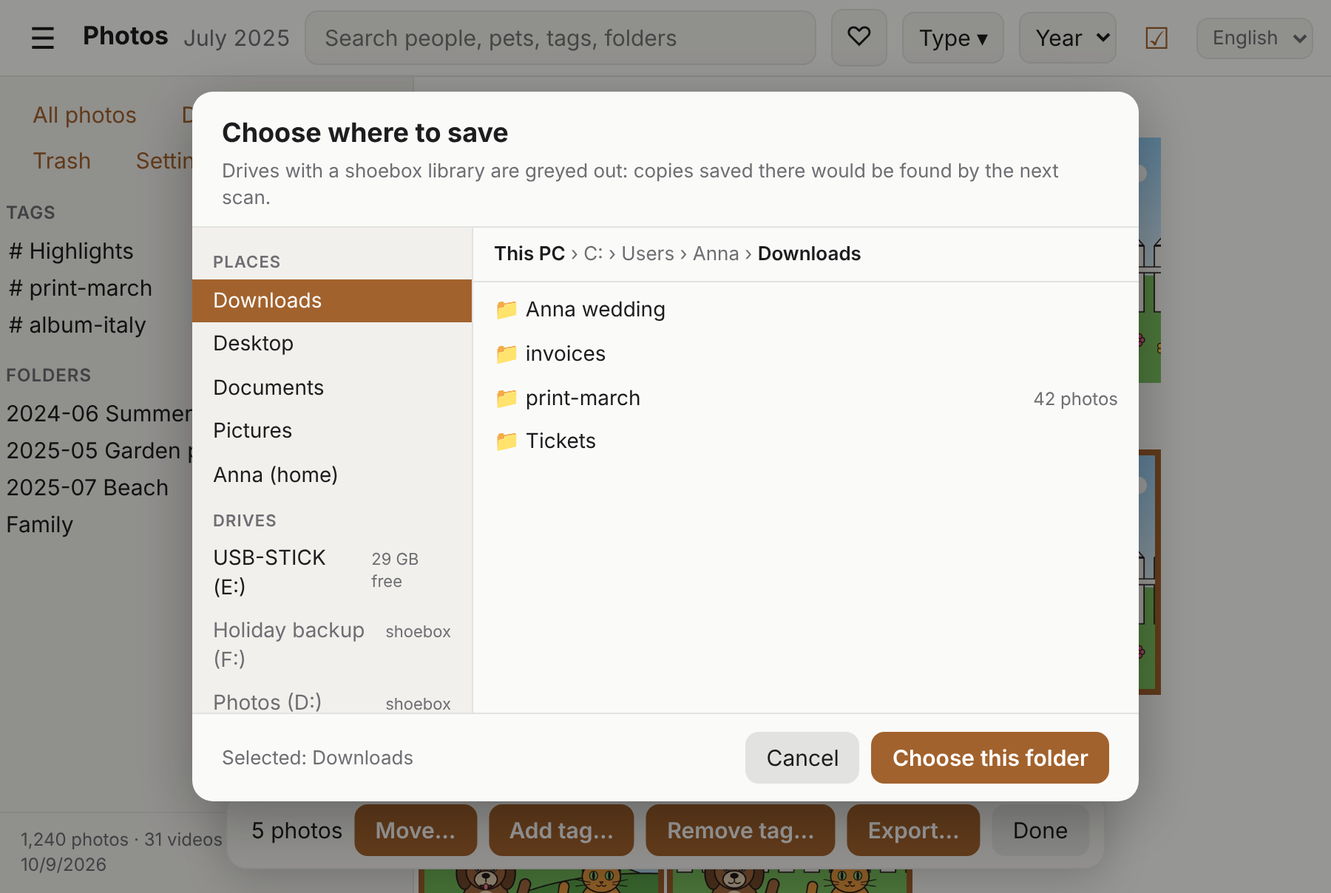
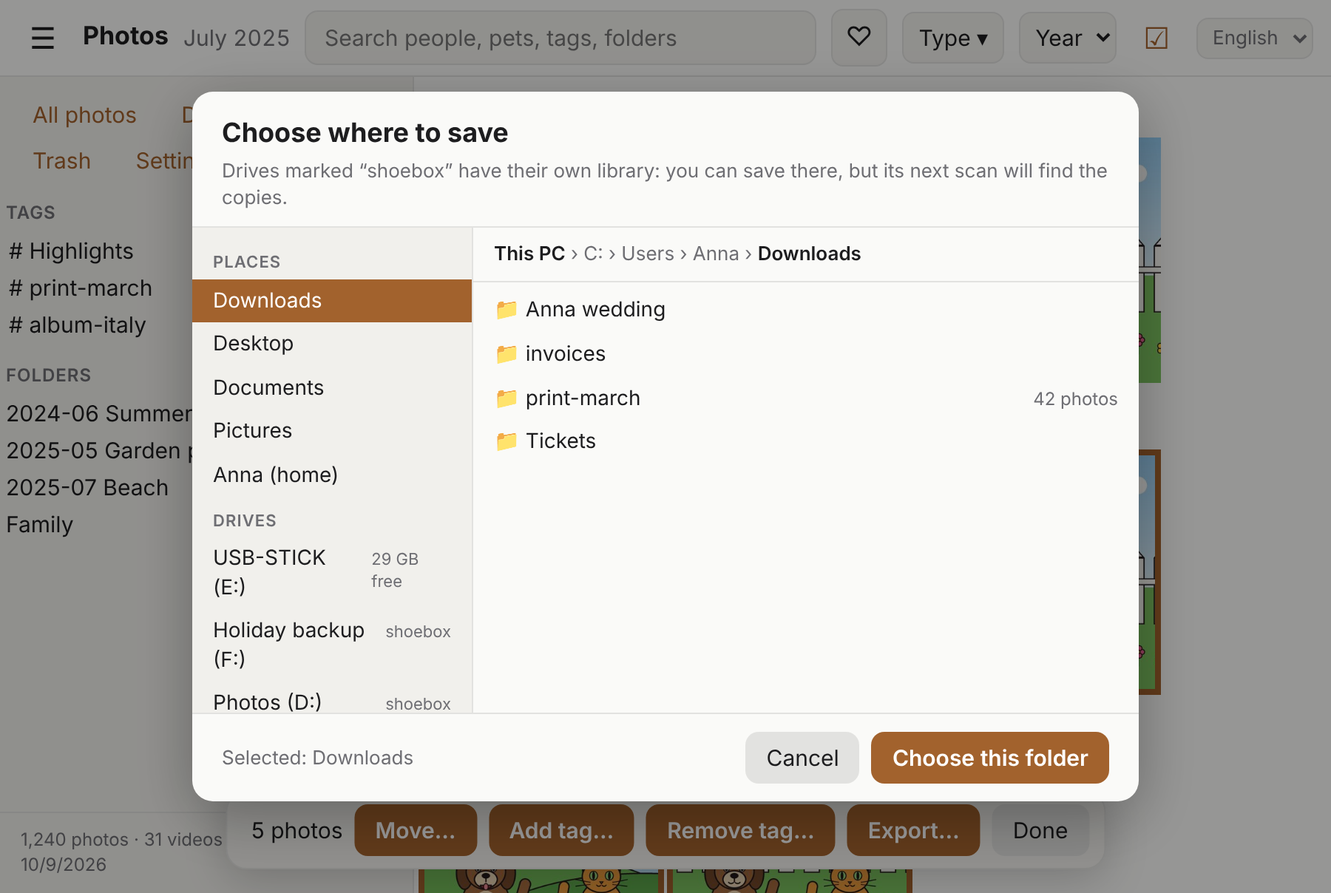
docs: phase 12 (export) design, mock-ups round 3, status row
Claude-Session: https://claude.ai/code/session_013Y4fyjXz5M6ynPyqcv9P97

diff --git a/docs/mocks/export/09b-settings-collection-empty.html b/docs/mocks/export/09b-settings-collection-empty.html
@@ -1,4 +1,5 @@
-<!doctype html><html><head><meta charset='utf-8'><title>mock</title><link rel='stylesheet' href='../../../core/web/app.css'>
+<!doctype html><html lang="en"><head><meta charset="utf-8"><title>mock</title>
+<link rel="stylesheet" href="../../../core/web/app.css">
 <style>
 body { overflow: hidden; }
 .mgrid { display: flex; flex-wrap: wrap; padding: 2px; }
@@ -56,6 +57,9 @@ body { overflow: hidden; }
 .callout { position: absolute; z-index: 9; font: 600 13px -apple-system, sans-serif; color: #fff; background: var(--accent); border-radius: 99px; padding: 2px 10px; }
 .toast { position: fixed; left: 50%; transform: translateX(-50%); top: 70px; bottom: auto; }
 .set-h { margin-top: 0; }
+.tip { position: absolute; z-index: 30; top: 48px; left: 600px; background: #2b2b2d; color: #eee; font-size: 13px; padding: 4px 9px; border-radius: 6px; border: 1px solid #444; white-space: nowrap; }
+.lb-bar .coll { outline: 0; }
+.lb-bar .hov { background: rgba(255,255,255,.18); border-radius: 6px; }
 .lightbox .toast { left: 330px; }
 .lightbox .stage { right: 340px; }
 .lb-panel { display: flex; }
@@ -66,4 +70,23 @@ body { overflow: hidden; }
 .tree .nm { flex: 1; }
 .tree .ct { color: var(--muted); font-size: 12px; }
 </style>
-</head><body><div class="lightbox"><div class="stage"><img src="img/p00.jpg" style="max-width:100%;max-height:100%"></div><div class="lb-bar"><button class="icon">✕</button><span class="lb-title">Jul 14, 2025, 3:12 PM · IMG_3457.jpg</span><button class="icon fav-lb"><svg width="22" height="22" viewBox="0 0 24 24" fill="none" stroke="currentColor" stroke-width="2"><path d="M12 21s-7.5-4.6-9.6-9.2C1 8.6 2.8 5 6.2 5c2 0 3.4 1.1 4.3 2.6h3C14.4 6.100 15.800 5 17.800 5c3.400 0 5.200 3.600 3.800 6.800C19.500 16.400 12 21 12 21z" transform="translate(0 0)"/></svg></button><button class="icon coll" title="Add to collection “print-march” (c)"><svg width="22" height="22" viewBox="0 0 24 24" fill="none" stroke="currentColor" stroke-width="2" stroke-linejoin="round"><path d="M6 3h12v18l-6-4.500L6 21z"/><path d="M12 8v6M9 11h6"/></svg></button><button class="icon">↺</button><button class="icon">⤓</button><button class="icon">ⓘ</button></div><button class="nav prev">‹</button><aside class="lb-panel"><dl><dt>Date</dt><dd>Jul 14, 2025, 3:12 PM</dd><dt>Drive</dt><dd>Photos</dd><dt>Path</dt><dd>/2025-07 Beach/IMG_3457.jpg</dd><dt>Size</dt><dd>1600 × 1067 · 133.1 KB</dd><dt>Camera</dt><dd>Sample Camera</dd><dt>Tags</dt><dd><div class="tags"><button>📁 2025-07 Beach</button><button class="add">+ Tag</button></div></dd></dl></aside></div></body></html>
+</head><body class="">
+<header class="bar">
+  <button class="icon">☰</button><h1>Photos</h1><span class="month">July 2025</span>
+  <div class="search"><input type="search" placeholder="Search people, pets, tags, folders" value=""></div>
+  <button class="fav-btn">♡</button>
+  <div class="types"><button class="types-btn">Type ▾</button></div>
+  <select><option>Year</option></select>
+  <button class="icon" style="">☑</button>
+  <select class="lang-pick"><option>English</option></select>
+</header>
+<div class="layout">
+  <nav class="sidebar">
+    <div class="sidebar-head"><button class="link">All photos</button> <button class="link">Duplicates</button> <button class="link">Trash</button> <button class="link">Settings</button></div>
+    <div class="side-tags"><h3><span>Tags</span></h3><ul class="tree"><li><div class="row"><span class="tw"></span><span class="nm"># Highlights</span><span class="ct">3</span></div></li><li><div class="row"><span class="tw"></span><span class="nm"># print-march</span><span class="ct">42</span></div></li><li><div class="row"><span class="tw"></span><span class="nm"># album-italy</span><span class="ct">17</span></div></li></ul></div>
+    <h3 class="side-head"><span>Folders</span></h3>
+    <ul class="tree"><li><div class="row"><span class="nm">2024-06 Summer trip</span><span class="ct">6</span></div></li><li><div class="row"><span class="nm">2025-05 Garden party</span><span class="ct">3</span></div></li><li><div class="row"><span class="nm">2025-07 Beach</span><span class="ct">3</span></div></li><li><div class="row"><span class="nm">Family</span><span class="ct">3</span></div></li></ul>
+    <footer class="status">1,240 photos · 31 videos · last scan 10/9/2026</footer>
+  </nav>
+  <main class="scroller"><div class="page"><h2>Settings</h2><section class="settings-section"><h3>Moving to the trash</h3><label class="check-row"><input type="checkbox"> Allow move to trash</label><p class="hint">Off by default, so shoebox never touches your originals.</p></section><section class="settings-section"><h3>Collection <span style="background:var(--accent);color:#fff;border-radius:99px;font-size:11px;padding:1px 8px;vertical-align:middle">new</span></h3><p class="hint" style="margin-top:0">A quick way to gather photos for something: a print order, an album, a video for a birthday. Type a tag name here and this button <span class="iconbox"><svg width="22" height="22" viewBox="0 0 24 24" fill="none" stroke="currentColor" stroke-width="2" stroke-linejoin="round"><path d="M6 3h12v18l-6-4.500L6 21z"/><path d="M12 8v6M9 11h6"/></svg></span> appears in the photo view (shortcut <span class="kbd">C</span>). One click tags the photo with it, another click removes the tag. Then search for the tag and use <b>Export…</b> to get all of them in one folder. Leave it empty to hide the button.</p><div style="display:flex;gap:10px;align-items:center"><span class="iconbox"><svg width="22" height="22" viewBox="0 0 24 24" fill="none" stroke="currentColor" stroke-width="2" stroke-linejoin="round"><path d="M6 3h12v18l-6-4.500L6 21z"/><path d="M12 8v6M9 11h6"/></svg></span><input type="text" value="" placeholder="e.g. album-italy" style="padding:7px 10px;border-radius:8px;border:1px solid var(--line);background:var(--panel)"> <span class="hint">Empty: no button in the photo view</span></div></section><section class="settings-section"><h3>Export <span style="background:var(--accent);color:#fff;border-radius:99px;font-size:11px;padding:1px 8px;vertical-align:middle">new</span></h3><label class="check-row"><input type="checkbox" checked> Number exported files</label><p class="hint">Puts the order of the photos in front of the name: <b>001_IMG_3457.jpg</b>, <b>002_IMG_3501.jpg</b>… The numbers follow the capture date, so a layout program or a print shop sees the same order as the timeline. Off: files keep their name only.</p></section><section class="settings-section"><h3>Maps</h3><label class="check-row"><input type="checkbox"> Show maps (OpenStreetMap)</label></section></div></main>
+</div></body></html>

diff --git a/docs/mocks/export/10b-photo-view-after-click.html b/docs/mocks/export/10b-photo-view-after-click.html
@@ -1,5 +1,4 @@
-<!doctype html><html lang="en"><head><meta charset="utf-8"><title>mock</title>
-<link rel="stylesheet" href="../../../core/web/app.css">
+<!doctype html><html><head><meta charset='utf-8'><title>mock</title><link rel='stylesheet' href='../../../core/web/app.css'>
 <style>
 body { overflow: hidden; }
 .mgrid { display: flex; flex-wrap: wrap; padding: 2px; }
@@ -70,23 +69,4 @@ body { overflow: hidden; }
 .tree .nm { flex: 1; }
 .tree .ct { color: var(--muted); font-size: 12px; }
 </style>
-</head><body class="selecting">
-<header class="bar">
-  <button class="icon">☰</button><h1>Photos</h1><span class="month">July 2025</span>
-  <div class="search"><input type="search" placeholder="Search people, pets, tags, folders" value=""></div>
-  <button class="fav-btn">♡</button>
-  <div class="types"><button class="types-btn">Type ▾</button></div>
-  <select><option>Year</option></select>
-  <button class="icon" style="color:var(--accent)">☑</button>
-  <select class="lang-pick"><option>English</option></select>
-</header>
-<div class="layout">
-  <nav class="sidebar">
-    <div class="sidebar-head"><button class="link">All photos</button> <button class="link">Duplicates</button> <button class="link">Trash</button> <button class="link">Settings</button></div>
-    <div class="side-tags"><h3><span>Tags</span></h3><ul class="tree"><li><div class="row"><span class="tw"></span><span class="nm"># Highlights</span><span class="ct">3</span></div></li><li><div class="row"><span class="tw"></span><span class="nm"># print-march</span><span class="ct">42</span></div></li><li><div class="row"><span class="tw"></span><span class="nm"># album-italy</span><span class="ct">17</span></div></li></ul></div>
-    <h3 class="side-head"><span>Folders</span></h3>
-    <ul class="tree"><li><div class="row"><span class="nm">2024-06 Summer trip</span><span class="ct">6</span></div></li><li><div class="row"><span class="nm">2025-05 Garden party</span><span class="ct">3</span></div></li><li><div class="row"><span class="nm">2025-07 Beach</span><span class="ct">3</span></div></li><li><div class="row"><span class="nm">Family</span><span class="ct">3</span></div></li></ul>
-    <footer class="status">1,240 photos · 31 videos · last scan 10/9/2026</footer>
-  </nav>
-  <main class="scroller"><div class="sech">July 2025<span class="n">3</span></div><div class="mgrid"><a class="cell"><div class="ph"><img class="ok" src="img/p00.jpg"></div></a><a class="cell"><div class="ph"><img class="ok" src="img/p01.jpg"></div></a><a class="cell"><div class="ph"><img class="ok" src="img/p02.jpg"></div></a></div><div class="sech">May 2025<span class="n">5</span></div><div class="mgrid"><a class="cell sel"><div class="ph"><img class="ok" src="img/p03.jpg"></div><span class="tick">✓</span></a><a class="cell sel"><div class="ph"><img class="ok" src="img/p04.jpg"></div><span class="tick">✓</span></a><a class="cell sel"><div class="ph"><img class="ok" src="img/p05.jpg"></div><span class="tick">✓</span></a><a class="cell sel"><div class="ph"><img class="ok" src="img/p06.jpg"></div><span class="tick">✓</span></a><a class="cell sel"><div class="ph"><img class="ok" src="img/p07.jpg"></div><span class="tick">✓</span></a></div><div class="sech">March 2025<span class="n">3</span></div><div class="mgrid"><a class="cell"><div class="ph"><img class="ok" src="img/p08.jpg"></div></a><a class="cell"><div class="ph"><img class="ok" src="img/p09.jpg"></div></a><a class="cell"><div class="ph"><img class="ok" src="img/p10.jpg"></div></a></div></main>
-</div><div class="modal"><div class="dialog picker" role="dialog"><header><h2>Choose where to save</h2><p class="hint" style="margin:4px 0 0">Drives marked “shoebox” have their own library: you can save there, but its next scan will find the copies.</p></header><div class="pk"><nav><h4>Places</h4><div class="on">Downloads</div><div class="">Desktop</div><div class="">Documents</div><div class="">Pictures</div><div class="">anna (home)</div><h4>Drives</h4><div>USB-STICK<small>29 GB free</small></div><div>Holiday backup<small>shoebox</small></div><div>Photos<small>shoebox</small></div></nav><div class="main"><div class="crumbs"><b>/</b> Users › anna › <b>Downloads</b></div><ul><li><span>📁 Anna wedding</span><small></small></li><li><span>📁 invoices</span><small></small></li><li><span>📁 print-march</span><small>42 photos</small></li><li><span>📁 Tickets</span><small></small></li></ul></div></div><div class="foot"><span class="grow">Selected: Downloads</span><button class="btn quiet">Cancel</button><button class="btn">Choose this folder</button></div></div></div><div class="selbar"><span>5 photos</span><button class="btn">Move…</button><button class="btn">Add tag…</button><button class="btn">Remove tag…</button><button class="btn export">Export…</button><button class="btn quiet">Done</button></div></body></html>
+</head><body><div class="lightbox"><div class="stage"><img src="img/p00.jpg" style="max-width:100%;max-height:100%"></div><div class="lb-bar"><button class="icon">✕</button><span class="lb-title">Jul 14, 2025, 3:12 PM · IMG_3457.jpg</span><button class="icon fav-lb"><svg width="22" height="22" viewBox="0 0 24 24" fill="none" stroke="currentColor" stroke-width="2"><path d="M12 21s-7.5-4.6-9.6-9.2C1 8.6 2.8 5 6.2 5c2 0 3.4 1.1 4.3 2.6h3C14.4 6.100 15.800 5 17.800 5c3.400 0 5.200 3.600 3.800 6.800C19.500 16.400 12 21 12 21z" transform="translate(0 0)"/></svg></button><button class="icon coll on"><svg width="22" height="22" viewBox="0 0 24 24" fill="currentColor" stroke="currentColor" stroke-width="2" stroke-linejoin="round"><path d="M6 3h12v18l-6-4.500L6 21z"/><path d="M9 11.500l2.200 2.200L15.200 9" stroke="#111"/></svg></button><button class="icon">↺</button><button class="icon">⤓</button><button class="icon">ⓘ</button></div><button class="nav prev">‹</button><aside class="lb-panel"><dl><dt>Date</dt><dd>Jul 14, 2025, 3:12 PM</dd><dt>Drive</dt><dd>Photos</dd><dt>Path</dt><dd>/2025-07 Beach/IMG_3457.jpg</dd><dt>Size</dt><dd>1600 × 1067 · 133.1 KB</dd><dt>Camera</dt><dd>Sample Camera</dd><dt>Tags</dt><dd><div class="tags"><button>📁 2025-07 Beach</button><span class="own"><button>print-march</button><button class="x">✕</button></span><button class="add">+ Tag</button></div></dd></dl></aside><div class="toast">Added to “print-march” · 43 photos</div></div></body></html>

diff --git a/docs/mocks/export/10a-photo-view-hover-off.html b/docs/mocks/export/10a-photo-view-hover-off.html
@@ -1,5 +1,4 @@
-<!doctype html><html lang="en"><head><meta charset="utf-8"><title>mock</title>
-<link rel="stylesheet" href="../../../core/web/app.css">
+<!doctype html><html><head><meta charset='utf-8'><title>mock</title><link rel='stylesheet' href='../../../core/web/app.css'>
 <style>
 body { overflow: hidden; }
 .mgrid { display: flex; flex-wrap: wrap; padding: 2px; }
@@ -70,23 +69,4 @@ body { overflow: hidden; }
 .tree .nm { flex: 1; }
 .tree .ct { color: var(--muted); font-size: 12px; }
 </style>
-</head><body class="selecting">
-<header class="bar">
-  <button class="icon">☰</button><h1>Photos</h1><span class="month">July 2025</span>
-  <div class="search"><input type="search" placeholder="Search people, pets, tags, folders" value=""></div>
-  <button class="fav-btn">♡</button>
-  <div class="types"><button class="types-btn">Type ▾</button></div>
-  <select><option>Year</option></select>
-  <button class="icon" style="color:var(--accent)">☑</button>
-  <select class="lang-pick"><option>English</option></select>
-</header>
-<div class="layout">
-  <nav class="sidebar">
-    <div class="sidebar-head"><button class="link">All photos</button> <button class="link">Duplicates</button> <button class="link">Trash</button> <button class="link">Settings</button></div>
-    <div class="side-tags"><h3><span>Tags</span></h3><ul class="tree"><li><div class="row"><span class="tw"></span><span class="nm"># Highlights</span><span class="ct">3</span></div></li><li><div class="row"><span class="tw"></span><span class="nm"># print-march</span><span class="ct">42</span></div></li><li><div class="row"><span class="tw"></span><span class="nm"># album-italy</span><span class="ct">17</span></div></li></ul></div>
-    <h3 class="side-head"><span>Folders</span></h3>
-    <ul class="tree"><li><div class="row"><span class="nm">2024-06 Summer trip</span><span class="ct">6</span></div></li><li><div class="row"><span class="nm">2025-05 Garden party</span><span class="ct">3</span></div></li><li><div class="row"><span class="nm">2025-07 Beach</span><span class="ct">3</span></div></li><li><div class="row"><span class="nm">Family</span><span class="ct">3</span></div></li></ul>
-    <footer class="status">1,240 photos · 31 videos · last scan 10/9/2026</footer>
-  </nav>
-  <main class="scroller"><div class="sech">July 2025<span class="n">3</span></div><div class="mgrid"><a class="cell"><div class="ph"><img class="ok" src="img/p00.jpg"></div></a><a class="cell"><div class="ph"><img class="ok" src="img/p01.jpg"></div></a><a class="cell"><div class="ph"><img class="ok" src="img/p02.jpg"></div></a></div><div class="sech">May 2025<span class="n">5</span></div><div class="mgrid"><a class="cell sel"><div class="ph"><img class="ok" src="img/p03.jpg"></div><span class="tick">✓</span></a><a class="cell sel"><div class="ph"><img class="ok" src="img/p04.jpg"></div><span class="tick">✓</span></a><a class="cell sel"><div class="ph"><img class="ok" src="img/p05.jpg"></div><span class="tick">✓</span></a><a class="cell sel"><div class="ph"><img class="ok" src="img/p06.jpg"></div><span class="tick">✓</span></a><a class="cell sel"><div class="ph"><img class="ok" src="img/p07.jpg"></div><span class="tick">✓</span></a></div><div class="sech">March 2025<span class="n">3</span></div><div class="mgrid"><a class="cell"><div class="ph"><img class="ok" src="img/p08.jpg"></div></a><a class="cell"><div class="ph"><img class="ok" src="img/p09.jpg"></div></a><a class="cell"><div class="ph"><img class="ok" src="img/p10.jpg"></div></a></div></main>
-</div><div class="modal"><div class="dialog picker" role="dialog"><header><h2>Choose where to save</h2><p class="hint" style="margin:4px 0 0">Drives marked “shoebox” have their own library: you can save there, but its next scan will find the copies.</p></header><div class="pk"><nav><h4>Places</h4><div class="on">Downloads</div><div class="">Desktop</div><div class="">Documents</div><div class="">Pictures</div><div class="">anna (home)</div><h4>Drives</h4><div>USB-STICK<small>29 GB free</small></div><div>Holiday backup<small>shoebox</small></div><div>Photos<small>shoebox</small></div></nav><div class="main"><div class="crumbs"><b>/</b> Users › anna › <b>Downloads</b></div><ul><li><span>📁 Anna wedding</span><small></small></li><li><span>📁 invoices</span><small></small></li><li><span>📁 print-march</span><small>42 photos</small></li><li><span>📁 Tickets</span><small></small></li></ul></div></div><div class="foot"><span class="grow">Selected: Downloads</span><button class="btn quiet">Cancel</button><button class="btn">Choose this folder</button></div></div></div><div class="selbar"><span>5 photos</span><button class="btn">Move…</button><button class="btn">Add tag…</button><button class="btn">Remove tag…</button><button class="btn export">Export…</button><button class="btn quiet">Done</button></div></body></html>
+</head><body><div class="lightbox"><div class="stage"><img src="img/p00.jpg" style="max-width:100%;max-height:100%"></div><div class="lb-bar"><button class="icon">✕</button><span class="lb-title">Jul 14, 2025, 3:12 PM · IMG_3457.jpg</span><button class="icon fav-lb"><svg width="22" height="22" viewBox="0 0 24 24" fill="none" stroke="currentColor" stroke-width="2"><path d="M12 21s-7.5-4.6-9.6-9.2C1 8.6 2.8 5 6.2 5c2 0 3.4 1.1 4.3 2.6h3C14.4 6.100 15.800 5 17.800 5c3.400 0 5.200 3.600 3.800 6.800C19.500 16.400 12 21 12 21z" transform="translate(0 0)"/></svg></button><button class="icon coll hov"><svg width="22" height="22" viewBox="0 0 24 24" fill="none" stroke="currentColor" stroke-width="2" stroke-linejoin="round"><path d="M6 3h12v18l-6-4.500L6 21z"/><path d="M12 8v6M9 11h6"/></svg></button><button class="icon">↺</button><button class="icon">⤓</button><button class="icon">ⓘ</button></div><button class="nav prev">‹</button><aside class="lb-panel"><dl><dt>Date</dt><dd>Jul 14, 2025, 3:12 PM</dd><dt>Drive</dt><dd>Photos</dd><dt>Path</dt><dd>/2025-07 Beach/IMG_3457.jpg</dd><dt>Size</dt><dd>1600 × 1067 · 133.1 KB</dd><dt>Camera</dt><dd>Sample Camera</dd><dt>Tags</dt><dd><div class="tags"><button>📁 2025-07 Beach</button><button class="add">+ Tag</button></div></dd></dl></aside><span class="tip">Add tag “print-march” (C)</span></div></body></html>

diff --git a/docs/mocks/export/10d-photo-view-no-collection-set.html b/docs/mocks/export/10d-photo-view-no-collection-set.html
@@ -1,5 +1,4 @@
-<!doctype html><html lang="en"><head><meta charset="utf-8"><title>mock</title>
-<link rel="stylesheet" href="../../../core/web/app.css">
+<!doctype html><html><head><meta charset='utf-8'><title>mock</title><link rel='stylesheet' href='../../../core/web/app.css'>
 <style>
 body { overflow: hidden; }
 .mgrid { display: flex; flex-wrap: wrap; padding: 2px; }
@@ -70,23 +69,4 @@ body { overflow: hidden; }
 .tree .nm { flex: 1; }
 .tree .ct { color: var(--muted); font-size: 12px; }
 </style>
-</head><body class="selecting">
-<header class="bar">
-  <button class="icon">☰</button><h1>Photos</h1><span class="month">July 2025</span>
-  <div class="search"><input type="search" placeholder="Search people, pets, tags, folders" value=""></div>
-  <button class="fav-btn">♡</button>
-  <div class="types"><button class="types-btn">Type ▾</button></div>
-  <select><option>Year</option></select>
-  <button class="icon" style="color:var(--accent)">☑</button>
-  <select class="lang-pick"><option>English</option></select>
-</header>
-<div class="layout">
-  <nav class="sidebar">
-    <div class="sidebar-head"><button class="link">All photos</button> <button class="link">Duplicates</button> <button class="link">Trash</button> <button class="link">Settings</button></div>
-    <div class="side-tags"><h3><span>Tags</span></h3><ul class="tree"><li><div class="row"><span class="tw"></span><span class="nm"># Highlights</span><span class="ct">3</span></div></li><li><div class="row"><span class="tw"></span><span class="nm"># print-march</span><span class="ct">42</span></div></li><li><div class="row"><span class="tw"></span><span class="nm"># album-italy</span><span class="ct">17</span></div></li></ul></div>
-    <h3 class="side-head"><span>Folders</span></h3>
-    <ul class="tree"><li><div class="row"><span class="nm">2024-06 Summer trip</span><span class="ct">6</span></div></li><li><div class="row"><span class="nm">2025-05 Garden party</span><span class="ct">3</span></div></li><li><div class="row"><span class="nm">2025-07 Beach</span><span class="ct">3</span></div></li><li><div class="row"><span class="nm">Family</span><span class="ct">3</span></div></li></ul>
-    <footer class="status">1,240 photos · 31 videos · last scan 10/9/2026</footer>
-  </nav>
-  <main class="scroller"><div class="sech">July 2025<span class="n">3</span></div><div class="mgrid"><a class="cell"><div class="ph"><img class="ok" src="img/p00.jpg"></div></a><a class="cell"><div class="ph"><img class="ok" src="img/p01.jpg"></div></a><a class="cell"><div class="ph"><img class="ok" src="img/p02.jpg"></div></a></div><div class="sech">May 2025<span class="n">5</span></div><div class="mgrid"><a class="cell sel"><div class="ph"><img class="ok" src="img/p03.jpg"></div><span class="tick">✓</span></a><a class="cell sel"><div class="ph"><img class="ok" src="img/p04.jpg"></div><span class="tick">✓</span></a><a class="cell sel"><div class="ph"><img class="ok" src="img/p05.jpg"></div><span class="tick">✓</span></a><a class="cell sel"><div class="ph"><img class="ok" src="img/p06.jpg"></div><span class="tick">✓</span></a><a class="cell sel"><div class="ph"><img class="ok" src="img/p07.jpg"></div><span class="tick">✓</span></a></div><div class="sech">March 2025<span class="n">3</span></div><div class="mgrid"><a class="cell"><div class="ph"><img class="ok" src="img/p08.jpg"></div></a><a class="cell"><div class="ph"><img class="ok" src="img/p09.jpg"></div></a><a class="cell"><div class="ph"><img class="ok" src="img/p10.jpg"></div></a></div></main>
-</div><div class="modal"><div class="dialog picker" role="dialog"><header><h2>Choose where to save</h2><p class="hint" style="margin:4px 0 0">Drives marked “shoebox” have their own library: you can save there, but its next scan will find the copies.</p></header><div class="pk"><nav><h4>Places</h4><div class="on">Downloads</div><div class="">Desktop</div><div class="">Documents</div><div class="">Pictures</div><div class="">anna (home)</div><h4>Drives</h4><div>USB-STICK<small>29 GB free</small></div><div>Holiday backup<small>shoebox</small></div><div>Photos<small>shoebox</small></div></nav><div class="main"><div class="crumbs"><b>/</b> Users › anna › <b>Downloads</b></div><ul><li><span>📁 Anna wedding</span><small></small></li><li><span>📁 invoices</span><small></small></li><li><span>📁 print-march</span><small>42 photos</small></li><li><span>📁 Tickets</span><small></small></li></ul></div></div><div class="foot"><span class="grow">Selected: Downloads</span><button class="btn quiet">Cancel</button><button class="btn">Choose this folder</button></div></div></div><div class="selbar"><span>5 photos</span><button class="btn">Move…</button><button class="btn">Add tag…</button><button class="btn">Remove tag…</button><button class="btn export">Export…</button><button class="btn quiet">Done</button></div></body></html>
+</head><body><div class="lightbox"><div class="stage"><img src="img/p00.jpg" style="max-width:100%;max-height:100%"></div><div class="lb-bar"><button class="icon">✕</button><span class="lb-title">Jul 14, 2025, 3:12 PM · IMG_3457.jpg</span><button class="icon fav-lb"><svg width="22" height="22" viewBox="0 0 24 24" fill="none" stroke="currentColor" stroke-width="2"><path d="M12 21s-7.5-4.6-9.6-9.2C1 8.6 2.8 5 6.2 5c2 0 3.4 1.1 4.3 2.6h3C14.4 6.100 15.800 5 17.800 5c3.400 0 5.200 3.600 3.800 6.800C19.500 16.400 12 21 12 21z" transform="translate(0 0)"/></svg></button><button class="icon">↺</button><button class="icon">⤓</button><button class="icon">ⓘ</button></div><button class="nav prev">‹</button><aside class="lb-panel"><dl><dt>Date</dt><dd>Jul 14, 2025, 3:12 PM</dd><dt>Drive</dt><dd>Photos</dd><dt>Path</dt><dd>/2025-07 Beach/IMG_3457.jpg</dd><dt>Size</dt><dd>1600 × 1067 · 133.1 KB</dd><dt>Camera</dt><dd>Sample Camera</dd><dt>Tags</dt><dd><div class="tags"><button>📁 2025-07 Beach</button><button class="add">+ Tag</button></div></dd></dl></aside></div></body></html>

diff --git a/docs/mocks/export/11-warning-other-shoebox-drive.html b/docs/mocks/export/11-warning-other-shoebox-drive.html
@@ -70,14 +70,14 @@ body { overflow: hidden; }
 .tree .nm { flex: 1; }
 .tree .ct { color: var(--muted); font-size: 12px; }
 </style>
-</head><body class="selecting">
+</head><body class="">
 <header class="bar">
   <button class="icon">☰</button><h1>Photos</h1><span class="month">July 2025</span>
   <div class="search"><input type="search" placeholder="Search people, pets, tags, folders" value=""></div>
   <button class="fav-btn">♡</button>
   <div class="types"><button class="types-btn">Type ▾</button></div>
   <select><option>Year</option></select>
-  <button class="icon" style="color:var(--accent)">☑</button>
+  <button class="icon" style="">☑</button>
   <select class="lang-pick"><option>English</option></select>
 </header>
 <div class="layout">
@@ -88,5 +88,5 @@ body { overflow: hidden; }
     <ul class="tree"><li><div class="row"><span class="nm">2024-06 Summer trip</span><span class="ct">6</span></div></li><li><div class="row"><span class="nm">2025-05 Garden party</span><span class="ct">3</span></div></li><li><div class="row"><span class="nm">2025-07 Beach</span><span class="ct">3</span></div></li><li><div class="row"><span class="nm">Family</span><span class="ct">3</span></div></li></ul>
     <footer class="status">1,240 photos · 31 videos · last scan 10/9/2026</footer>
   </nav>
-  <main class="scroller"><div class="sech">July 2025<span class="n">3</span></div><div class="mgrid"><a class="cell"><div class="ph"><img class="ok" src="img/p00.jpg"></div></a><a class="cell"><div class="ph"><img class="ok" src="img/p01.jpg"></div></a><a class="cell"><div class="ph"><img class="ok" src="img/p02.jpg"></div></a></div><div class="sech">May 2025<span class="n">5</span></div><div class="mgrid"><a class="cell sel"><div class="ph"><img class="ok" src="img/p03.jpg"></div><span class="tick">✓</span></a><a class="cell sel"><div class="ph"><img class="ok" src="img/p04.jpg"></div><span class="tick">✓</span></a><a class="cell sel"><div class="ph"><img class="ok" src="img/p05.jpg"></div><span class="tick">✓</span></a><a class="cell sel"><div class="ph"><img class="ok" src="img/p06.jpg"></div><span class="tick">✓</span></a><a class="cell sel"><div class="ph"><img class="ok" src="img/p07.jpg"></div><span class="tick">✓</span></a></div><div class="sech">March 2025<span class="n">3</span></div><div class="mgrid"><a class="cell"><div class="ph"><img class="ok" src="img/p08.jpg"></div></a><a class="cell"><div class="ph"><img class="ok" src="img/p09.jpg"></div></a><a class="cell"><div class="ph"><img class="ok" src="img/p10.jpg"></div></a></div></main>
-</div><div class="modal"><div class="dialog picker" role="dialog"><header><h2>Choose where to save</h2><p class="hint" style="margin:4px 0 0">Drives marked “shoebox” have their own library: you can save there, but its next scan will find the copies.</p></header><div class="pk"><nav><h4>Places</h4><div class="on">Downloads</div><div class="">Desktop</div><div class="">Documents</div><div class="">Pictures</div><div class="">anna (home)</div><h4>Drives</h4><div>USB-STICK<small>29 GB free</small></div><div>Holiday backup<small>shoebox</small></div><div>Photos<small>shoebox</small></div></nav><div class="main"><div class="crumbs"><b>/</b> Users › anna › <b>Downloads</b></div><ul><li><span>📁 Anna wedding</span><small></small></li><li><span>📁 invoices</span><small></small></li><li><span>📁 print-march</span><small>42 photos</small></li><li><span>📁 Tickets</span><small></small></li></ul></div></div><div class="foot"><span class="grow">Selected: Downloads</span><button class="btn quiet">Cancel</button><button class="btn">Choose this folder</button></div></div></div><div class="selbar"><span>5 photos</span><button class="btn">Move…</button><button class="btn">Add tag…</button><button class="btn">Remove tag…</button><button class="btn export">Export…</button><button class="btn quiet">Done</button></div></body></html>
+  <main class="scroller"><div class="filters"><span class="chip">#&nbsp;print-march <button>✕</button></span><span class="spacer"></span><button class="btn" title="Export the 42 photos with this tag">Export…</button></div><div class="sech">March 2026<span class="n">20</span></div><div class="mgrid"><a class="cell"><div class="ph"><img class="ok" src="img/p00.jpg"></div></a><a class="cell"><div class="ph"><img class="ok" src="img/p01.jpg"></div></a><a class="cell"><div class="ph"><img class="ok" src="img/p02.jpg"></div></a><a class="cell"><div class="ph"><img class="ok" src="img/p03.jpg"></div></a><a class="cell"><div class="ph"><img class="ok" src="img/p04.jpg"></div></a></div><div class="sech">July 2025<span class="n">22</span></div><div class="mgrid"><a class="cell"><div class="ph"><img class="ok" src="img/p05.jpg"></div></a><a class="cell"><div class="ph"><img class="ok" src="img/p06.jpg"></div></a><a class="cell"><div class="ph"><img class="ok" src="img/p07.jpg"></div></a><a class="cell"><div class="ph"><img class="ok" src="img/p08.jpg"></div></a><a class="cell"><div class="ph"><img class="ok" src="img/p09.jpg"></div></a></div></main>
+</div><div class="modal"><div class="dialog wide" role="dialog"><h2>Save to another shoebox drive?</h2><p style="margin:0 0 8px">“Holiday backup” has its own shoebox library.</p><p class="hint" style="margin:0">The 42 photos saved there will be found by the next scan of that drive and added to it as new photos, without their tags, people or favorites. If you meant to hand photos to someone else who uses shoebox, that is fine.</p><div class="actions"><button class="btn quiet">Cancel</button><button class="btn">Export anyway</button></div></div></div></body></html>

diff --git a/docs/mocks/export/03b-folder-picker-windows.html b/docs/mocks/export/03b-folder-picker-windows.html
@@ -57,6 +57,9 @@ body { overflow: hidden; }
 .callout { position: absolute; z-index: 9; font: 600 13px -apple-system, sans-serif; color: #fff; background: var(--accent); border-radius: 99px; padding: 2px 10px; }
 .toast { position: fixed; left: 50%; transform: translateX(-50%); top: 70px; bottom: auto; }
 .set-h { margin-top: 0; }
+.tip { position: absolute; z-index: 30; top: 48px; left: 600px; background: #2b2b2d; color: #eee; font-size: 13px; padding: 4px 9px; border-radius: 6px; border: 1px solid #444; white-space: nowrap; }
+.lb-bar .coll { outline: 0; }
+.lb-bar .hov { background: rgba(255,255,255,.18); border-radius: 6px; }
 .lightbox .toast { left: 330px; }
 .lightbox .stage { right: 340px; }
 .lb-panel { display: flex; }
@@ -86,4 +89,4 @@ body { overflow: hidden; }
     <footer class="status">1,240 photos · 31 videos · last scan 10/9/2026</footer>
   </nav>
   <main class="scroller"><div class="sech">July 2025<span class="n">3</span></div><div class="mgrid"><a class="cell"><div class="ph"><img class="ok" src="img/p00.jpg"></div></a><a class="cell"><div class="ph"><img class="ok" src="img/p01.jpg"></div></a><a class="cell"><div class="ph"><img class="ok" src="img/p02.jpg"></div></a></div><div class="sech">May 2025<span class="n">5</span></div><div class="mgrid"><a class="cell sel"><div class="ph"><img class="ok" src="img/p03.jpg"></div><span class="tick">✓</span></a><a class="cell sel"><div class="ph"><img class="ok" src="img/p04.jpg"></div><span class="tick">✓</span></a><a class="cell sel"><div class="ph"><img class="ok" src="img/p05.jpg"></div><span class="tick">✓</span></a><a class="cell sel"><div class="ph"><img class="ok" src="img/p06.jpg"></div><span class="tick">✓</span></a><a class="cell sel"><div class="ph"><img class="ok" src="img/p07.jpg"></div><span class="tick">✓</span></a></div><div class="sech">March 2025<span class="n">3</span></div><div class="mgrid"><a class="cell"><div class="ph"><img class="ok" src="img/p08.jpg"></div></a><a class="cell"><div class="ph"><img class="ok" src="img/p09.jpg"></div></a><a class="cell"><div class="ph"><img class="ok" src="img/p10.jpg"></div></a></div></main>
-</div><div class="modal"><div class="dialog picker" role="dialog"><header><h2>Choose where to save</h2><p class="hint" style="margin:4px 0 0">Drives with a shoebox library are greyed out: copies saved there would be found by the next scan.</p></header><div class="pk"><nav><h4>Places</h4><div class="on">Downloads</div><div class="">Desktop</div><div class="">Documents</div><div class="">Pictures</div><div class="">Anna (home)</div><h4>Drives</h4><div class="">USB-STICK (E:)<small>29 GB free</small></div><div class="off">Holiday backup (F:)<small>shoebox</small></div><div class="off">Photos (D:)<small>shoebox</small></div></nav><div class="main"><div class="crumbs"><b>This PC</b> › C: › Users › Anna › <b>Downloads</b></div><ul><li><span>📁 Anna wedding</span><small></small></li><li><span>📁 invoices</span><small></small></li><li><span>📁 print-march</span><small>42 photos</small></li><li><span>📁 Tickets</span><small></small></li></ul></div></div><div class="foot"><span class="grow">Selected: Downloads</span><button class="btn quiet">Cancel</button><button class="btn">Choose this folder</button></div></div></div><div class="selbar"><span>5 photos</span><button class="btn">Move…</button><button class="btn">Add tag…</button><button class="btn">Remove tag…</button><button class="btn export">Export…</button><button class="btn quiet">Done</button></div></body></html>
+</div><div class="modal"><div class="dialog picker" role="dialog"><header><h2>Choose where to save</h2><p class="hint" style="margin:4px 0 0">Drives marked “shoebox” have their own library: you can save there, but its next scan will find the copies.</p></header><div class="pk"><nav><h4>Places</h4><div class="on">Downloads</div><div class="">Desktop</div><div class="">Documents</div><div class="">Pictures</div><div class="">Anna (home)</div><h4>Drives</h4><div>USB-STICK (E:)<small>29 GB free</small></div><div>Holiday backup (F:)<small>shoebox</small></div><div>Photos (D:)<small>shoebox</small></div></nav><div class="main"><div class="crumbs"><b>This PC</b> › C: › Users › Anna › <b>Downloads</b></div><ul><li><span>📁 Anna wedding</span><small></small></li><li><span>📁 invoices</span><small></small></li><li><span>📁 print-march</span><small>42 photos</small></li><li><span>📁 Tickets</span><small></small></li></ul></div></div><div class="foot"><span class="grow">Selected: Downloads</span><button class="btn quiet">Cancel</button><button class="btn">Choose this folder</button></div></div></div><div class="selbar"><span>5 photos</span><button class="btn">Move…</button><button class="btn">Add tag…</button><button class="btn">Remove tag…</button><button class="btn export">Export…</button><button class="btn quiet">Done</button></div></body></html>

diff --git a/docs/mocks/export/10c-photo-view-hover-on.html b/docs/mocks/export/10c-photo-view-hover-on.html
@@ -56,6 +56,9 @@ body { overflow: hidden; }
 .callout { position: absolute; z-index: 9; font: 600 13px -apple-system, sans-serif; color: #fff; background: var(--accent); border-radius: 99px; padding: 2px 10px; }
 .toast { position: fixed; left: 50%; transform: translateX(-50%); top: 70px; bottom: auto; }
 .set-h { margin-top: 0; }
+.tip { position: absolute; z-index: 30; top: 48px; left: 600px; background: #2b2b2d; color: #eee; font-size: 13px; padding: 4px 9px; border-radius: 6px; border: 1px solid #444; white-space: nowrap; }
+.lb-bar .coll { outline: 0; }
+.lb-bar .hov { background: rgba(255,255,255,.18); border-radius: 6px; }
 .lightbox .toast { left: 330px; }
 .lightbox .stage { right: 340px; }
 .lb-panel { display: flex; }
@@ -66,4 +69,4 @@ body { overflow: hidden; }
 .tree .nm { flex: 1; }
 .tree .ct { color: var(--muted); font-size: 12px; }
 </style>
-</head><body><div class="lightbox"><div class="stage"><img src="img/p00.jpg" style="max-width:100%;max-height:100%"></div><div class="lb-bar"><button class="icon">✕</button><span class="lb-title">Jul 14, 2025, 3:12 PM · IMG_3457.jpg</span><button class="icon fav-lb"><svg width="22" height="22" viewBox="0 0 24 24" fill="none" stroke="currentColor" stroke-width="2"><path d="M12 21s-7.5-4.6-9.6-9.2C1 8.6 2.8 5 6.2 5c2 0 3.4 1.1 4.3 2.6h3C14.4 6.100 15.800 5 17.800 5c3.400 0 5.200 3.600 3.800 6.800C19.500 16.400 12 21 12 21z" transform="translate(0 0)"/></svg></button><button class="icon coll on" title="Add to collection “print-march” (c)"><svg width="22" height="22" viewBox="0 0 24 24" fill="currentColor" stroke="currentColor" stroke-width="2" stroke-linejoin="round"><path d="M6 3h12v18l-6-4.500L6 21z"/><path d="M9 11.500l2.200 2.200L15.200 9" stroke="#111"/></svg></button><button class="icon">↺</button><button class="icon">⤓</button><button class="icon">ⓘ</button></div><button class="nav prev">‹</button><aside class="lb-panel"><dl><dt>Date</dt><dd>Jul 14, 2025, 3:12 PM</dd><dt>Drive</dt><dd>Photos</dd><dt>Path</dt><dd>/2025-07 Beach/IMG_3457.jpg</dd><dt>Size</dt><dd>1600 × 1067 · 133.1 KB</dd><dt>Camera</dt><dd>Sample Camera</dd><dt>Tags</dt><dd><div class="tags"><button>📁 2025-07 Beach</button><span class="own"><button>print-march</button><button class="x">✕</button></span><button class="add">+ Tag</button></div></dd></dl></aside><div class="toast">Added to “print-march” · 43 photos</div></div></body></html>
+</head><body><div class="lightbox"><div class="stage"><img src="img/p00.jpg" style="max-width:100%;max-height:100%"></div><div class="lb-bar"><button class="icon">✕</button><span class="lb-title">Jul 14, 2025, 3:12 PM · IMG_3457.jpg</span><button class="icon fav-lb"><svg width="22" height="22" viewBox="0 0 24 24" fill="none" stroke="currentColor" stroke-width="2"><path d="M12 21s-7.5-4.6-9.6-9.2C1 8.6 2.8 5 6.2 5c2 0 3.4 1.1 4.3 2.6h3C14.4 6.100 15.800 5 17.800 5c3.400 0 5.200 3.600 3.800 6.800C19.500 16.400 12 21 12 21z" transform="translate(0 0)"/></svg></button><button class="icon coll on hov"><svg width="22" height="22" viewBox="0 0 24 24" fill="currentColor" stroke="currentColor" stroke-width="2" stroke-linejoin="round"><path d="M6 3h12v18l-6-4.500L6 21z"/><path d="M9 11.500l2.200 2.200L15.200 9" stroke="#111"/></svg></button><button class="icon">↺</button><button class="icon">⤓</button><button class="icon">ⓘ</button></div><button class="nav prev">‹</button><aside class="lb-panel"><dl><dt>Date</dt><dd>Jul 14, 2025, 3:12 PM</dd><dt>Drive</dt><dd>Photos</dd><dt>Path</dt><dd>/2025-07 Beach/IMG_3457.jpg</dd><dt>Size</dt><dd>1600 × 1067 · 133.1 KB</dd><dt>Camera</dt><dd>Sample Camera</dd><dt>Tags</dt><dd><div class="tags"><button>📁 2025-07 Beach</button><span class="own"><button>print-march</button><button class="x">✕</button></span><button class="add">+ Tag</button></div></dd></dl></aside><span class="tip">Remove tag “print-march” (C)</span></div></body></html>

diff --git a/docs/mocks/export/01-selection-bar.html b/docs/mocks/export/01-selection-bar.html
@@ -57,6 +57,9 @@ body { overflow: hidden; }
 .callout { position: absolute; z-index: 9; font: 600 13px -apple-system, sans-serif; color: #fff; background: var(--accent); border-radius: 99px; padding: 2px 10px; }
 .toast { position: fixed; left: 50%; transform: translateX(-50%); top: 70px; bottom: auto; }
 .set-h { margin-top: 0; }
+.tip { position: absolute; z-index: 30; top: 48px; left: 600px; background: #2b2b2d; color: #eee; font-size: 13px; padding: 4px 9px; border-radius: 6px; border: 1px solid #444; white-space: nowrap; }
+.lb-bar .coll { outline: 0; }
+.lb-bar .hov { background: rgba(255,255,255,.18); border-radius: 6px; }
 .lightbox .toast { left: 330px; }
 .lightbox .stage { right: 340px; }
 .lb-panel { display: flex; }

diff --git a/docs/mocks/export/02-export-dialog-selection.html b/docs/mocks/export/02-export-dialog-selection.html
@@ -57,6 +57,9 @@ body { overflow: hidden; }
 .callout { position: absolute; z-index: 9; font: 600 13px -apple-system, sans-serif; color: #fff; background: var(--accent); border-radius: 99px; padding: 2px 10px; }
 .toast { position: fixed; left: 50%; transform: translateX(-50%); top: 70px; bottom: auto; }
 .set-h { margin-top: 0; }
+.tip { position: absolute; z-index: 30; top: 48px; left: 600px; background: #2b2b2d; color: #eee; font-size: 13px; padding: 4px 9px; border-radius: 6px; border: 1px solid #444; white-space: nowrap; }
+.lb-bar .coll { outline: 0; }
+.lb-bar .hov { background: rgba(255,255,255,.18); border-radius: 6px; }
 .lightbox .toast { left: 330px; }
 .lightbox .stage { right: 340px; }
 .lb-panel { display: flex; }

diff --git a/docs/mocks/export/04-tag-active-export-button.html b/docs/mocks/export/04-tag-active-export-button.html
@@ -57,6 +57,9 @@ body { overflow: hidden; }
 .callout { position: absolute; z-index: 9; font: 600 13px -apple-system, sans-serif; color: #fff; background: var(--accent); border-radius: 99px; padding: 2px 10px; }
 .toast { position: fixed; left: 50%; transform: translateX(-50%); top: 70px; bottom: auto; }
 .set-h { margin-top: 0; }
+.tip { position: absolute; z-index: 30; top: 48px; left: 600px; background: #2b2b2d; color: #eee; font-size: 13px; padding: 4px 9px; border-radius: 6px; border: 1px solid #444; white-space: nowrap; }
+.lb-bar .coll { outline: 0; }
+.lb-bar .hov { background: rgba(255,255,255,.18); border-radius: 6px; }
 .lightbox .toast { left: 330px; }
 .lightbox .stage { right: 340px; }
 .lb-panel { display: flex; }

diff --git a/docs/mocks/export/05-export-dialog-tag.html b/docs/mocks/export/05-export-dialog-tag.html
@@ -57,6 +57,9 @@ body { overflow: hidden; }
 .callout { position: absolute; z-index: 9; font: 600 13px -apple-system, sans-serif; color: #fff; background: var(--accent); border-radius: 99px; padding: 2px 10px; }
 .toast { position: fixed; left: 50%; transform: translateX(-50%); top: 70px; bottom: auto; }
 .set-h { margin-top: 0; }
+.tip { position: absolute; z-index: 30; top: 48px; left: 600px; background: #2b2b2d; color: #eee; font-size: 13px; padding: 4px 9px; border-radius: 6px; border: 1px solid #444; white-space: nowrap; }
+.lb-bar .coll { outline: 0; }
+.lb-bar .hov { background: rgba(255,255,255,.18); border-radius: 6px; }
 .lightbox .toast { left: 330px; }
 .lightbox .stage { right: 340px; }
 .lb-panel { display: flex; }

diff --git a/docs/mocks/export/06-export-dialog-folder-exists.html b/docs/mocks/export/06-export-dialog-folder-exists.html
@@ -57,6 +57,9 @@ body { overflow: hidden; }
 .callout { position: absolute; z-index: 9; font: 600 13px -apple-system, sans-serif; color: #fff; background: var(--accent); border-radius: 99px; padding: 2px 10px; }
 .toast { position: fixed; left: 50%; transform: translateX(-50%); top: 70px; bottom: auto; }
 .set-h { margin-top: 0; }
+.tip { position: absolute; z-index: 30; top: 48px; left: 600px; background: #2b2b2d; color: #eee; font-size: 13px; padding: 4px 9px; border-radius: 6px; border: 1px solid #444; white-space: nowrap; }
+.lb-bar .coll { outline: 0; }
+.lb-bar .hov { background: rgba(255,255,255,.18); border-radius: 6px; }
 .lightbox .toast { left: 330px; }
 .lightbox .stage { right: 340px; }
 .lb-panel { display: flex; }
